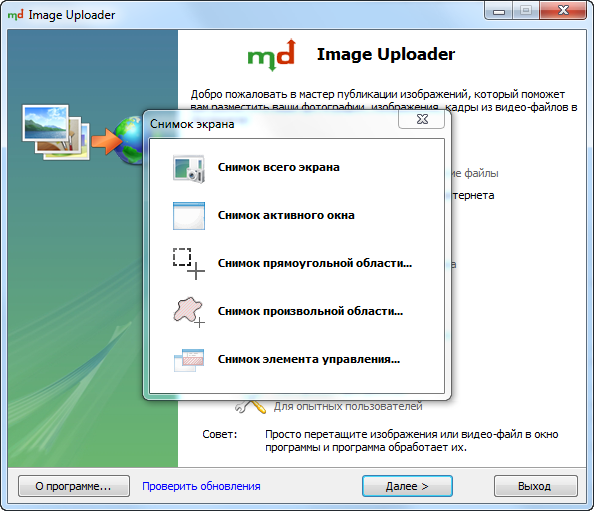
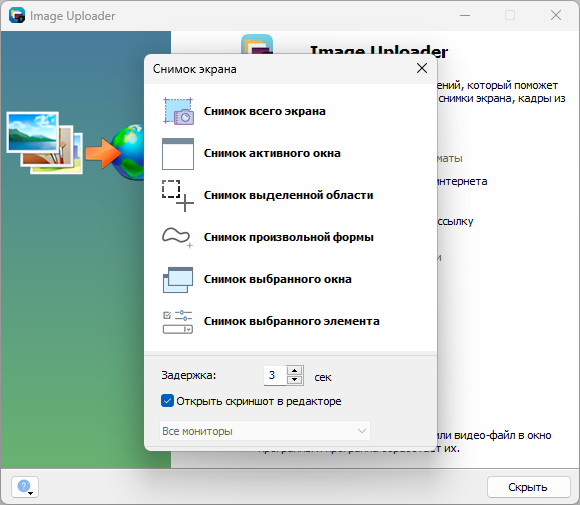
Update docs

diff --git a/Docs/ru_RU/advanced.html b/Docs/ru_RU/advanced.html
@@ -60,7 +60,7 @@
                 <li><code>/tray</code> — запуск программы в свернутом режиме (если включена опция "Показывать значок в трее")</li>
                 <li><code>/uninstall</code> — удаление всех записей программы в системном реестре</li>
                 <li><code>/debuglog</code> (ver >= 1.3.2) — показать лог ошибок при запуске</li>	
-				<li><code>/serverschecker</code> — (ver >= 1.4.0) проверка работоспособности серверов</li>
+				<li><code>/serverschecker</code> — (ver >= 1.4.0) запуск инструмента проверки работоспособности серверов</li>
 </ul>
  
 <h2 id="servers">Добавление и редактирование серверов</h2> 
@@ -114,7 +114,9 @@
 		<br />Значения:  <i>0</i> (по умолчанию) — хостинг картинок (эквивалентен <code>Type="image"</code>), <i>1</i> — файловый хостинг (эквивалентен <code>Type="file"</code>) .</li>  
 	<li><code>Type</code> —  (ver >= 1.2.8 ) тип сервера. Если задан, то атрибут <code>FileHost</code> игнорируется.
 		<br />Значения:  <i>image</i> (по умолчанию) — хостинг картинок, <i>file</i> — файловый хостинг (при этом <code>FileHost="1"</code> тоже обязательно нужно указывать),
-		<i>urlshortening</i> — сервис сокращения ссылок (для них вместо xml-узла <code>&lt;Server&gt;</code> следует использовать  <code>&lt;Server2&gt;</code>).</li>
+		<i>urlshortening</i> — сервис сокращения ссылок (для них вместо xml-узла <code>&lt;Server&gt;</code> следует использовать  <code>&lt;Server2&gt;</code>).<br>
+		<i>searchbyimage</i> — серис обратного поиска по изображению
+	</li>
 	<li><code>Types</code> - (ver >= 1.3.2 )  
 		<br>Список типов через пробел, например <code>file image urlshortening</code>
 	<li><code>NeedPassword</code> — (ver >= 1.2.9 build 4186) нужен ли пароль для авторизации. Необходимо для серверов с авторизацией через OAuth 2.0. <br />Значения:  <i>1</i> (по умолчанию) — нужен,
@@ -125,7 +127,7 @@
 	<li><code>MaxFileSize</code> — максимальный размер загружаемого файла, поддерживаемого сервером. Значение 
 		указывается в байтах. Значение по умолчанию — 0, что означает, что файл может быть какого угодно размера.</li>
 	<li><code>MinVersion</code> — (ver >= 1.3.1 ) Минимальная версия программы, поддерживаемая данным сервером. Следует использовать, 
-              если вы используете возможности, отсутствующие в старых версиях (например, функция <code>include()</code>). Атрибут должен иметь формат <code>x.x.x</code> или <code>x.x.x.xxxx</code>. При этом вместо узла <code>&lt;Server&gt;</code> следует использовать <code>&lt;Server3&gt;</code>.</li>
+              если вы используете возможности, отсутствующие в старых версиях программы. Атрибут должен иметь формат <code>x.x.x</code> или <code>x.x.x.xxxx</code>. При этом вместо узла <code>&lt;Server&gt;</code> следует использовать <code>&lt;Server3&gt;</code>.</li>
 	<li><code>Plugin</code> — содержит название файла плагина (без расширения .nut), отвечающего за загрузку на этот сервер. 
 		Скрипт должен быть расположен в каталоге Data\Scripts, и иметь расширение <code>.nut</code>. Если данный атрибут 
 		не пустой, весь узел &lt;Actions&gt; игнорируется, и всё взаимодействие с серверами перекладывается на 
@@ -146,19 +148,22 @@
     <li><code>DefaultForTypes</code> - (ver >= 1.3.3 )  
 	<br>Список типов серверов через пробел, например <code>file image</code>, для которых этот сервер является сервером по-умолчанию. 
     Если в файле servers.xml встречается несколько серверов с атрибутом DefaultForTypes и типы пересекаются, в качестве сервера по-умолчанию будет использоваться тот, что встречается в файле позже.
-    
+    </li>
+	<li><code></code>UploadToTempServer</code> (ver >= 1.4.1 ) — указывает, нужно ли загружать изображение на промежуточный сервер (актуально только для сервисов поиска по изображению). Эта опция может использоваться, если сервис поиска не поддерживает поиск по загруженному файлу. </li>
 </ul>
 
-<p>Узел <code>&lt;Actions&gt;</code> (без атрибутов) содержит вложенные узлы Action, каждый из которых обозначает одно действие - запрос к серверу. Запросы выполняются в том порядке, в котором они указаны в файле, т.е. сверху вниз.</p> 
+<h3 id="servers_actions">Узел Actions</h3>
+<p>Узел <code>&lt;Actions&gt;</code> (без атрибутов) содержит вложенные узлы Action, каждый из которых обозначает одно действие (как правило, это запрос к серверу). Запросы выполняются в том порядке, в котором они указаны в файле, т.е. сверху вниз.</p> 
 <pre class="prettyprint">
 &lt;Action Type=&quot;get&quot; Url=&quot;http://example.com/&quot; RegExp=&#39;id(\d+)&#39; AssignVars=&quot;ИмяПеременной:0&quot; 
     [дополнительные атрибуты]/&gt;
 </pre>
 
+
 <p>Каждый узел <code>&lt;Action&gt;</code>  может иметь следующие атрибуты:</p>
 <ul>
 <li><code>Url</code> — обязательный атрибут. Должен содержать HTTP, HTTPS или FTP адрес. Может содержать <a href="#vars">переменные</a>.</li>
-<li><code>Type</code>  — тип запроса к серверу. <br />Может принимать следующие значения: 
+<li><code>Type</code>  — тип запроса к серверу (или другого действия). <br />Может принимать следующие значения: 
 	<ul>
 		<li><i>get</i> — метод  GET  протокола HTTP </li>
 		<li><i>post</i> — метод  POST протокола HTTP </li>
@@ -166,6 +171,7 @@
 		<li><i>upload</i> — POST-запрос в формате multipart/form-data. Именно этот тип запроса используется 
 			в большинстве случаев для загрузки файлов.</li>
 		<li><i>put</i> — загрузка файла с помощью HTTP PUT запроса или загрузка на FTP. Поддерживается лишь некоторыми серверами.</li>
+		<li><i>openurl</i> (version >= 1.4.1) — открытие URL в приложении по-умолчанию</li>
 	</ul>
 	</li>
 <li><code>PostParams</code> — список параметров, передаваемых серверу по протоколу POST (Type=post или Type=upload), разделенных точкой с запятой.<br />
@@ -181,7 +187,7 @@
 Имя переменной может содержать символы A-z, 0-9 и символ подчеркивания. 
 <a href="#vars">Подробнее о переменных в servers.xml</a></li>
 <li><code>OnlyOnce</code> — значение <i>1</i> означает, что данный запрос будет выполняться лишь 1 раз за всю сессию загрузки. 
-Чаще всего этим запросом является авторизация на сервере. Значение <i>0</i> - данный запрос выполняется при загрузке КАЖДОГО файла.</li>
+Чаще всего таким запросом является авторизация на сервере. Значение <i>0</i> - данный запрос выполняется при загрузке КАЖДОГО файла.</li>
 <li><code>Referer</code> — (опциональный параметр) адрес страницы источника запроса. Используется, если сервер ограничивает запросы с чужих сайтов.
  По умолчанию программа устанавливает Referer такой же, как и адрес запрашиваемой страницы.</li>
 <li><code>Description</code> — опциональный параметр, содержащий описание текущего действия. Отображается в окне программы.</li>
@@ -217,6 +223,7 @@ To remove default field, pass an empty value.
 
 <br />
 </ul>
+<h3 id="servers_actions">Узел Result</h3>
 <p>Типичный вид xml-узла Result:</p>
 <pre class="prettyprint">
 &lt;Result ImageUrlTemplate=&quot;$(Image)&quot; ThumbUrlTemplate=&quot;$(Thumb)&quot; DownloadUrlTemplate=&quot;$(View)&quot;/&gt;
@@ -233,7 +240,7 @@ To remove default field, pass an empty value.
 </ul>
 <p>Каждый из этих атрибутов может содержать <a href="#vars">переменные</a>. </p>
 <p>Один из атрибутов — ImageUrlTemplate или DownloadUrlTemplate  — должен быть обязательно задан. Программа использует тот или иной атрибут в зависимости от настроек, и в зависимости от того, какой из атрибутов задан, а какой нет. По-умолчанию предпочтение отдается прямой ссылке.
-В случае использования загрузочного скрипта (атрибут  Plugin узла Server), все атрибуты всё равно должны иметь непустые значения. </p>
+В случае использования скрипта (плагина - атрибут Plugin узла Server), все атрибуты всё равно должны иметь непустые значения. </p>
 <a name="vars"></a>
 <h3>Переменные в строках и атрибутах</h3>
 <p>Все переменные, доступные для использования в атрибутах узлов Action и Result, задаются в параметре AssignVars, или же встроены в саму программу.</p>
@@ -246,11 +253,11 @@ To remove default field, pass an empty value.
 <li><code>_FILEEXT</code> — расширение файла.</li>
 <li><code>_THUMBWIDTH</code> — ширина миниатюры.</li>
 <li><code>_RAND16BITS</code> — случайное число от 0 до 65535. Генерируется только один раз при загрузке каждого файла.</li>
-<li><code>_THREADID</code> — (ver > 1.3.2) current thread id</li>
+<li><code>_THREADID</code> — (ver > 1.3.2) идентификатор текущего потока (нити)</li>
 <li><code>_LOGIN</code> — имя пользователя (задана, если пользователь включил авторизацию в настройках)</li>
 <li><code>_PASSWORD</code> — пароль пользователя.</li>
 <li><code>_ORIGINALURL</code> — ссылка, которую надо сократить (только для серверов сокращения ссылок).</li>
-
+<li><code>_IMAGEURL</code> (ver > 1.4.1) — прямая ссылка на изображение для поиска по нему (которое может находиться на промежуточном хостинге хранения изображений). Это актуально только для узла Server c <code>Type="searchbyimage"</code>. </li>
 </ul>
 <p>Для подстановки значений переменных в строковые параметры используются конструкции вида <code>$(ИмяПеременной)</code>. Количество подставляемых переменных не ограничивается.
 Если переменная не существует, вместо неё будет подставлена пустая строка.</p>
@@ -277,7 +284,7 @@ To remove default field, pass an empty value.
 <code>htmldecode</code> - (version >= 1.3.2) decode HTML entities <br>
 
 <a name="scripts"></a>
-<h2>Создание плагинов</h2> 
+<h2>Создание скриптов (плагинов)</h2> 
 <p>Для расширенной поддержки серверов в программе используются скрипты на <a href="http://www.squirrel-lang.org/" target="_blank">
  языке Squirrel 3</a> (до версии 1.3.2 использовался Squirrel 2).</p> 
 <p>Они должны быть сохранены в кодировке utf-8 в файлах с расширением <code>.nut</code>.
@@ -291,7 +298,7 @@ To remove default field, pass an empty value.
 </div>
 </div>
 <div id="footer">
-<p>Copyright &copy; 2007 - 2023, Sergey Svistunov</p>
+<p>Copyright &copy; 2007 - 2024 Sergey Svistunov</p>
 </div>
 
 </body>

diff --git a/Docs/ru_RU/usage.html b/Docs/ru_RU/usage.html
@@ -32,9 +32,9 @@
 <div class="image_text">Окно приветствия</div>
 <p>На странице приветствия программа рассказывает пользователю, какие функции она может выполнить.</p>
  <h3>2. Страница импортирования видео файла</h3>
- <div class="image"><img src="../Pics/video_grabber.png" title="Cтраница импортирования видео файла" alt="Cтраница импортирования видео файла"/></div>
-<div class="image_text">Cтраница импортирования видео файла</div>
-<p>Если пользователь выберет пункт «Импортировать видео файл», ему будет предложено выбрать файл, кадры из которого 
+ <div class="image"><img src="../Pics/video_grabber.png" title="Cтраница импортирования видеофайла" alt="Cтраница импортирования видеофайла"/></div>
+<div class="image_text">Cтраница импортирования видеофайла</div>
+<p>Если пользователь в окне приветствия выберет пункт «Импорт видео», ему будет предложено выбрать файл, кадры из которого 
 будут импортированы, и  показана страница извлечения кадров.</p>
 <p>На этой странице пользователь может задать необходимое количество кадров (кадры выбираются произвольным образом) 
 и  выбрать метод сохранения извлеченных кадров: в видео отдельных файлов PNG или скомпонованных в одно изображение.</p>
@@ -43,12 +43,12 @@
 <div class="image_text">Список выбранных изображений</div>
 <p>На следующей странице пользователю предлагается список изображений (файлов), 
 которые он выбрал или импортировал, для последующей загрузки в Интернет. Пользователь может удалить,
- добавить новые файлы, отредактировать (путем вызова внешнего редактора). Доступен практически весь 
- функционал программы, представленный на странице приветствия.</p>
+ добавить новые файлы, отредактировать (путем вызова встроенного или внешнего редактора).</p>
 <h3>4. Страница выбора параметров изображений и сервера</h3>
 <div class="image"><img src="../Pics/select_server.png" title="Страница выбора параметров изображений и сервера" alt="Страница выбора параметров изображений и сервера"/></div>
 <div class="image_text">Страница выбора параметров изображений и сервера</div>
- Страница «Параметры изображений и выбор сервера» позволяет задать необходимые параметры обработки изображений, такие как изменение ширины и высоты, добавление «водяного знака», надписи, изменения формата изображения и качества сжатия. Если необходимо, можно включить создание миниатюр для изображений различного вида.
+ Страница «Параметры изображений и выбор сервера» позволяет задать необходимые параметры обработки изображений, такие как изменение ширины и высоты, изменения формата изображения и качества сжатия. 
+ Если необходимо, можно включить создание миниатюр для изображений различного вида.
 Далее пользователю предлагается выбрать из списка сервер, на который будут загружены все изображения, и сервер, на который будут загружены все остальные типы файлов (документы, архивы, программы и т.д.).
 
  <h3>5. Страница загрузки</h3>
@@ -56,39 +56,40 @@
 <p/>
 <div class="image"><img src="../Pics/upload_page.png" title="Страница загрузки" alt="Страница загрузки"/></div>
 <div class="image_text">Страница загрузки</div>
-
+<div class="image" style="margin-top: 30px;"><img src="../Pics/result_code.png" title="Результат загрузки" alt="Результат загрузки"/></div>
+<div class="image_text">Результат загрузки</div>
 <h1>Снимок экрана</h1>
-<div class="image"><img src="../Pics/screenshot_dlg.png" title="Страница загрузки" alt="Страница загрузки"/></div>
-<div class="image_text">Страница загрузки</div>
+<div class="image"><img src="../Pics/screenshot_dlg.png" title="Снимок экрана" alt="Снимок экрана"/></div>
+<div class="image_text">Снимок экрана</div>
 <p>Программа может делать следующие виды снимков:</p>
 <ul>				 
 				<li><b>всего экрана</b></li>
 				<li><b>активного окна</b> — окна, с которым работал пользователь, до того, как открыл Image Uploader</li>
 			 	 <li><b>прямоугольной области, области произвольной формы</b> — области экрана, выбранной с помощью мыши</li>
-				 <li><b>экранного элемента</b> — окна, части окна, кнопки, панели, текстового поля и т.п., выбранных с помощью мыши</li>
-				 </ul>
-				 <p>Также можно установить задержку в секундах, после которой будет выполняться скриншот 
+				 <li><b>элемента управления</b> — окна, части окна, кнопки, панели, текстового поля и т.п., выбранных с помощью мыши</li>
+				 <li><b>выбранного окна</b> — скриншот окна первого уровня, выбранного с помощью мыши</li>
+				</ul>
+				 <p>Также можно установить задержку (таймаут) в секундах, после которой будет выполняться скриншот 
 				 (действительно только для первых двух типов снимка).</p>
 			  	<h3>Выбор области экрана с помощью мыши (старый способ)</h3>
 				 Для выбора прямоугольной области, пользователь должен  нажать левую кнопку мыши, указав тем самым первый угол области и не отпуская кнопки, указать противоположный по диагонали угол, отпустив на нём нажатую кнопку. В процессе перемещения указателя мыши на экране область выбираемой границы будет обозначена прямоугольником некоторого цвета, динамически изменяющим свои размеры в процессе перемещения мыши по экрану монитора. 
 				 Если в процессе выбора области пользователь нажмёт клавишу Escape — команда получения снимка будет прервана.
-				 <p>Для выбора области прямоугольной области, пользователь должен нажать левую кнопку мыши, и не отпуская её, нарисовать на экране границу выделяемой области. Граница может иметь самопересечения.</p>
-				 <p>Для выбора оконного элемента, пользователь должен сделать одиночный клик левой кнопкой мыши по интересующему его элементу экрана. В процессе перемещения мыши доступные элементы будут подсвечиваться цветом.</p>
+				 <p>Для выбора области произвольной формы, пользователь должен нажать левую кнопку мыши, и не отпуская её, нарисовать на экране границу выделяемой области. Граница может иметь самопересечения.</p>
+				 <p>Для выбора элемента управления или окна первого уровня, пользователь должен сделать одиночный клик левой кнопкой мыши по интересующему его элементу экрана. В процессе перемещения мыши доступные элементы будут подсвечиваться цветом.</p>
 				<p>
 				<b>Множественный выбор</b></p>
-				Выбор сразу нескольких областей экрана доступен в режим выбора прямоугольной области и выбора экранного элемента.
+				Выбор нескольких областей экрана сразу доступен в режиме выбора прямоугольной области (старый способ) и выбора элемента управления или окна.
 				<p> Если при выборе области держать нажатой клавишу Shift, то после выбора первой области, можно будет выбрать еще одну область, которая будет совмещена с первой.</p>
 				<p>  Если при выборе области держать нажатой клавишу Ctrl, то после выбора области, можно будет выбрать еще одну область, которая будет исключена из выделения (её не будет на снимке).</p>
- <b>Рисование</b></p>
+ <b>Рисование при выборе области старым способом</b></p>
 <p>Рисовать на скриншоте можно правой клавишей мыши. Чтобы нарисовать вертикальную или горизонтальную линию, удерживайте Shift.
 Чтобы поменять цвет линии, нажмите среднюю клавишу мыши. Чтобы уменьшить или увеличить ширину линии, нажимайте клавиши "[" и "]".
-
 </div>
 
 </div>
 <div id="footer">
 
-<p>Copyright &copy; 2007 - 2024, Sergey Svistunov</p>
+<p>Copyright &copy; 2007 - 2024 Sergey Svistunov</p>
 </div>
 </body>
 </html>

diff --git a/Docs/ru_RU/index.html b/Docs/ru_RU/index.html
@@ -26,36 +26,35 @@
 Для хранения файлов программа использует несколько десятков общедоступных хостингов изображений и файлов. Среди них такие известные сайты, как flickr.com, imgur.com, Yandex.Disk, Dropbox и многие другие.</p>
 
 <div class="image"><img src="../Pics/main_window.png" title="Вид главного окна программы" alt="Вид главного окна программы"/></div>
-<div class="image_text">Вид главного окна программы</div>
+<div class="image_text">Внешний вид главного окна программы</div>
 <p><strong>Основные возможности программы:</strong></p>
 <ul>
 <li><strong>Загрузка изображений и файлов в интернет</strong> <br />Программа позволяет загружать изображения и файлы на множество сайтов &nbsp;(<a href="https://svistunov.dev/ru/imageuploader_servers" target="_blank">список</a>). 
-    Среди них такие сайты, как fastpic.ru, flickr.com, Google Drive, Yandex.Disk. Также можно загружать на FTP/SFTP сервер.<br /><br />
-    При этом программа автоматически генерирует миниатюры желаемого размера, масштабирует изображения, по желанию может добавить надпись или водяной знак на изображение. 
+    Среди них такие сайты, как fastpic.ru, flickr.com, Google Drive, Yandex.Disk. Также можно загружать на FTP, SFTP или WebDav сервер.<br /><br />
+    При этом программа автоматически генерирует миниатюры желаемого размера, масштабирует изображения, по желанию может добавить надпись или логотип на изображение. 
     Поддерживаются форматы изображений JPG, PNG, BMP, GIF, TIFF, WEBP.<br />После загрузки программа выдает список ссылок или коды HTML, BBCode и Markdown (для форумов, блогов и т.п.). 
-    Ссылки могут быть автоматически скопированы в буфер обмена.</li>
-</ul>
-<ul>
-<li><strong>Извлечение кадров из видео-файлов</strong><br /> Программа умеет извлекать заданное количество кадров из видео-файлов форматов AVI, MPG, VOB, WMV, MKV, TS, MOV и многих других. 
-    Программа умеет использовать установленные в системе кодеки (рекомендуется использовать <a href="https://codecguide.com/download_kl.htm" target="_blank">K-Lite Codec Pack</a>), но если у вас не установлены кодеки и вы не хотите ими засорять систему, 
-    программа может использовать библиотеку FFmpeg, которая поставляется вместе с программой (в портативной версии, а при использовании инсталятора нужно отметить соответствующую галочку)<br />
+    Ссылки могут быть автоматически скопированы в буфер обмена.
+</li>
+<li><strong>Извлечение кадров из видео-файлов</strong><br /> Программа умеет извлекать заданное количество кадров из видео-файлов различных форматов AVI, MPG, VOB, WMV, MKV, TS, MOV и многих других. 
+    При этом она может использовать установленные в системе DirectShow-кодеки (рекомендуется установить <a href="https://codecguide.com/download_kl.htm" target="_blank">K-Lite Codec Pack</a>), или использовать библиотеку FFmpeg, которая поставляется вместе с программой
+    (нужно отметить галочку "Установить FFmpeg" при установке программы).<br />
     <span>Полученные кадры можно по отдельности загрузить на сервер, либо скомпоновать в одну картинку-мозаику.</span><br />Функция предназначена в первую очередь для релизеров торрент-трекеров.</li>
 <li><span><strong>Получение технических данных о мультимедийных файлах</strong> (видео, аудио) с использованием библиотеки MediaInfo</span></li>
-<li><strong>Снимок экрана (скриншот)</strong><br /> Программа умеет делать скриншоты всего экрана или активного окна, или выбранной с помощью мыши области экрана (прямоугольной области, выбранного окна, области произвольной формы).&nbsp;<br /><span>Рисовать на скриншоте можно правой клавишей мыши. &nbsp;</span><span>Чтобы нарисовать вертикальную или горизонтальную линию, удерживайте Shift. Чтобы поменять цвет линии, нажмите среднюю клавишу мыши. Чтобы уменьшить или увеличить толщину линии, нажимайте клавиши "[" и "]".&nbsp;</span></li>
+<li><strong>Снимок экрана (скриншот)</strong><br /> Программа умеет делать скриншоты всего экрана или активного окна, или выбранной с помощью мыши области экрана (прямоугольной области, выбранного окна, области произвольной формы).&nbsp;</span></li>
 <li><strong>Редактор снимков (новинка в версии 1.3.1)</strong><br /> Вы можете быстро отредактировать сделанный скриншот: обрезать, добавить линии, текст, стрелки, размытие, подсветить текст маркером и т.д.</br> 
-<li><strong>Поддержка Drag-n-Drop и буфера обмена</strong><br /> Просто затащите видео-файл или изображения в главное окно из проводника или другого файл менеджера, или браузера, и программа сможет их обработать.&nbsp;<br /> Также поддерживается вставка изображений, ссылок из буфера обмена. И наоборот, вы можете перетащить или скопировать файл (или изображение) из окна программы в другую программу.</li>
+<li><strong>Поддержка Drag-n-Drop и буфера обмена</strong><br /> Просто перетащите изображения или видео-файл в главное окно программы из проводника, другого файлового менеджера или веб-браузера, и программа сможет их обработать.&nbsp;<br /> Также поддерживается вставка изображений, ссылок из буфера обмена. И наоборот, вы можете перетащить или скопировать файл (или изображение) из окна программы в другую программу.</li>
 <li><strong>Скачивание изображений из Интернета </strong>(по списку URL)</li>
 <li><strong>Сокращение ссылок<br /></strong>Программа умеет сокращать ссылки, как для загруженных файлов (после загрузки нужно нажать кнопку Опции и выбрать пункт "Сократить ссылки"), так и просто любую ссылку из буфера обмена</li>
 <li><strong>Интеграция в проводник Windows<br /></strong>Программа добавляет в контекстное меню файлов и папок подменю "Image Uploader" (<span>правый клик мыши по файлу)</span>, с помощью которого можно быстро загрузить файл на сервер.</li>
 <li><strong>Поддержка множества акаунтов<br /></strong>Вы можете использовать сразу несколько аккаунтов на одном и том же сайте.</li>
-<li><strong>Перезаливка<br /></strong>Загрузка изображений из текста с сохранением исходной разметки.</li>
+<li><strong>Перезаливка<br /></strong>Загрузка изображений из текста на выбранный хостинг с сохранением исходной разметки.</li>
 </ul>
 <p><b>Системные требования</b></p>
-<p>Поддерживаемые операционные системы: Windows 7/8/8.1/10/11 (x86)</p>
+<p>Поддерживаемые операционные системы: Windows 7/8/8.1/10/11</p>
    </div>
 </div>
 <div id="footer">
-    <p>Copyright &copy; 2007 - 2023, Sergey Svistunov</p>
+    <p>Copyright &copy; 2007 - 2024 Sergey Svistunov</p>
 </div>
 </body>
 </html>
